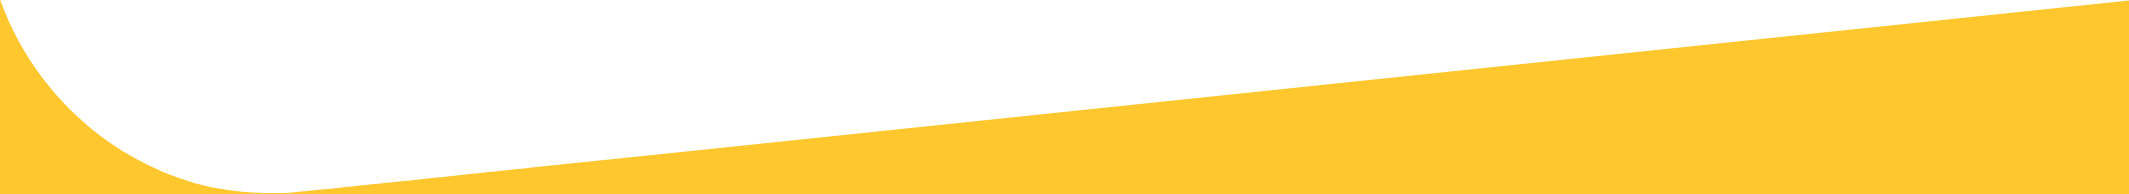
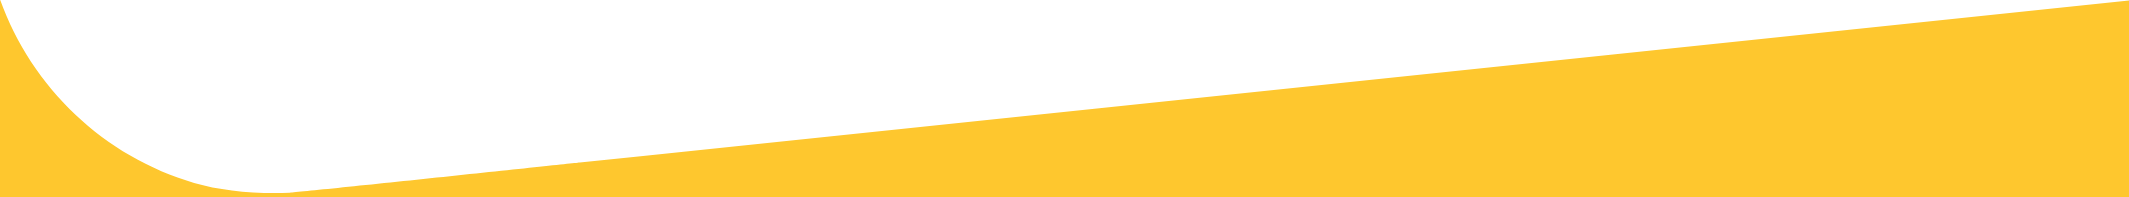
New feature has been added, header PC and SP layout updated

diff --git a/assets/style/app.css b/assets/style/app.css
@@ -583,6 +583,11 @@ body {
   background: #fec72e;
 }
 
+::-webkit-scrollbar {
+  display: none;
+  /* for Chrome, Safari, and Opera */
+}
+
 .bg-white {
   background: #fff;
 }
@@ -1730,16 +1735,18 @@ body.modal-open {
   background-size: cover;
 }
 
-.banner-area .curp-shape img {
-  -webkit-transform: translateY(3px);
-          transform: translateY(3px);
+.banner-area .curp-shape {
+  position: relative;
 }
 
-@media only screen and (max-width: 768px) {
-  .banner-area .curp-shape img {
-    -webkit-transform: translateY(1px);
-            transform: translateY(1px);
-  }
+.banner-area .curp-shape::after {
+  position: absolute;
+  content: "";
+  height: 5px;
+  width: 100%;
+  bottom: -3px;
+  background: #fec72e;
+  left: 0;
 }
 
 .banner-wrapper {
@@ -2219,32 +2226,12 @@ body.modal-open {
 
 .support-area .paragraph {
   position: relative;
-  margin-bottom: 70px;
-}
-
-.support-area .paragraph::after, .support-area .paragraph::before {
-  position: absolute;
-  content: "";
-  width: 100%;
-  height: 1px;
-  bottom: -30px;
-  background: #000;
-}
-
-.support-area .paragraph::after {
-  bottom: -37px;
-  width: 90%;
-  left: 50%;
-  -webkit-transform: translateX(-50%);
-          transform: translateX(-50%);
+  margin-bottom: 25px;
 }
 
 @media only screen and (max-width: 768px) {
   .support-area .paragraph {
     margin-bottom: 15px;
-  }
-  .support-area .paragraph::after, .support-area .paragraph::before {
-    display: none;
   }
 }
 
@@ -2378,12 +2365,6 @@ body.modal-open {
   background: #fdc04a;
   -webkit-box-shadow: 0 0 21px #ffe13e, 0 0 20px #2d2809, 0 0 21px #ffe13e inset;
   box-shadow: 0 0 21px #ffe13e, 0 0 20px #2d2809, 0 0 21px #ffe13e inset;
-}
-
-@media only screen and (max-width: 768px) {
-  .partner-area .partner-item .partner-title h5 {
-    height: 35px;
-  }
 }
 
 footer {

diff --git a/index.html b/index.html
@@ -523,7 +523,7 @@
               <div class="partner-thumb">
                 <img src="./assets/images/partner/partner-1.png" alt="Partner" />
               </div>
-              <div class="partner-title"><h5>DAFTER DISINI</h5></div>
+              <div class="partner-title"><h5>DAFTAR DISINI</h5></div>
             </div>
           </div>
           <div class="col-md-6">
@@ -531,7 +531,7 @@
               <div class="partner-thumb">
                 <img src="./assets/images/partner/partner-2.png" alt="Partner" />
               </div>
-              <div class="partner-title"><h5>DAFTER DISINI</h5></div>
+              <div class="partner-title"><h5>DAFTAR DISINI</h5></div>
             </div>
           </div>
         </div>
@@ -658,7 +658,7 @@
             </div>
           </div>
         </div>
-        <div class="copyright">Copyright © 2022 <a href="javascript:void()">AsikQQ</a>. All rights reserved.</div>
+        <div class="copyright">Copyright © 2015 <a href="javascript:void()">AsikQQ</a>. All rights reserved.</div>
       </div>
     </footer>
     <!-- Footer end here -->

diff --git a/assets/style/_banner.scss b/assets/style/_banner.scss
@@ -10,12 +10,23 @@
   background-size: cover;
 
   .curp-shape {
-    img {
-      transform: translateY(3px);
-      @include ipad {
-        transform: translateY(1px);
-      }
+    position: relative;
+    &::after {
+      position: absolute;
+      content: "";
+      height: 5px;
+      width: 100%;
+      bottom: -3px;
+      background: $primary;
+      left: 0;
     }
+    // padding-bottom: 2px;
+    // img {
+    //   transform: translateY(3px);
+    //   @include mobile-lg {
+    //     transform: translateY(2px);
+    //   }
+    // }
   }
 }
 

diff --git a/assets/style/_support.scss b/assets/style/_support.scss
@@ -1,29 +1,9 @@
 .support-area {
   .paragraph {
     position: relative;
-    margin-bottom: 70px;
-    &::after,
-    &::before {
-      position: absolute;
-      content: "";
-      width: 100%;
-      height: 1px;
-      bottom: -30px;
-      background: $black;
-    }
-
-    &::after {
-      bottom: -37px;
-      width: 90%;
-      left: 50%;
-      transform: translateX(-50%);
-    }
+    margin-bottom: 25px;
     @include ipad {
       margin-bottom: 15px;
-      &::after,
-      &::before {
-        display: none;
-      }
     }
   }
 

diff --git a/assets/style/_partner.scss b/assets/style/_partner.scss
@@ -44,10 +44,6 @@
           -webkit-box-shadow: 0 0 21px #ffe13e, 0 0 20px #2d2809, 0 0 21px #ffe13e inset;
           box-shadow: 0 0 21px #ffe13e, 0 0 20px #2d2809, 0 0 21px #ffe13e inset;
         }
-
-        @include ipad {
-          height: 35px;
-        }
       }
     }
   }

diff --git a/assets/style/_global.scss b/assets/style/_global.scss
@@ -164,6 +164,10 @@ body {
   background: $primary;
 }
 
+::-webkit-scrollbar {
+  display: none; /* for Chrome, Safari, and Opera */
+}
+
 // Shop Background
 .bg-white {
   background: $white;
